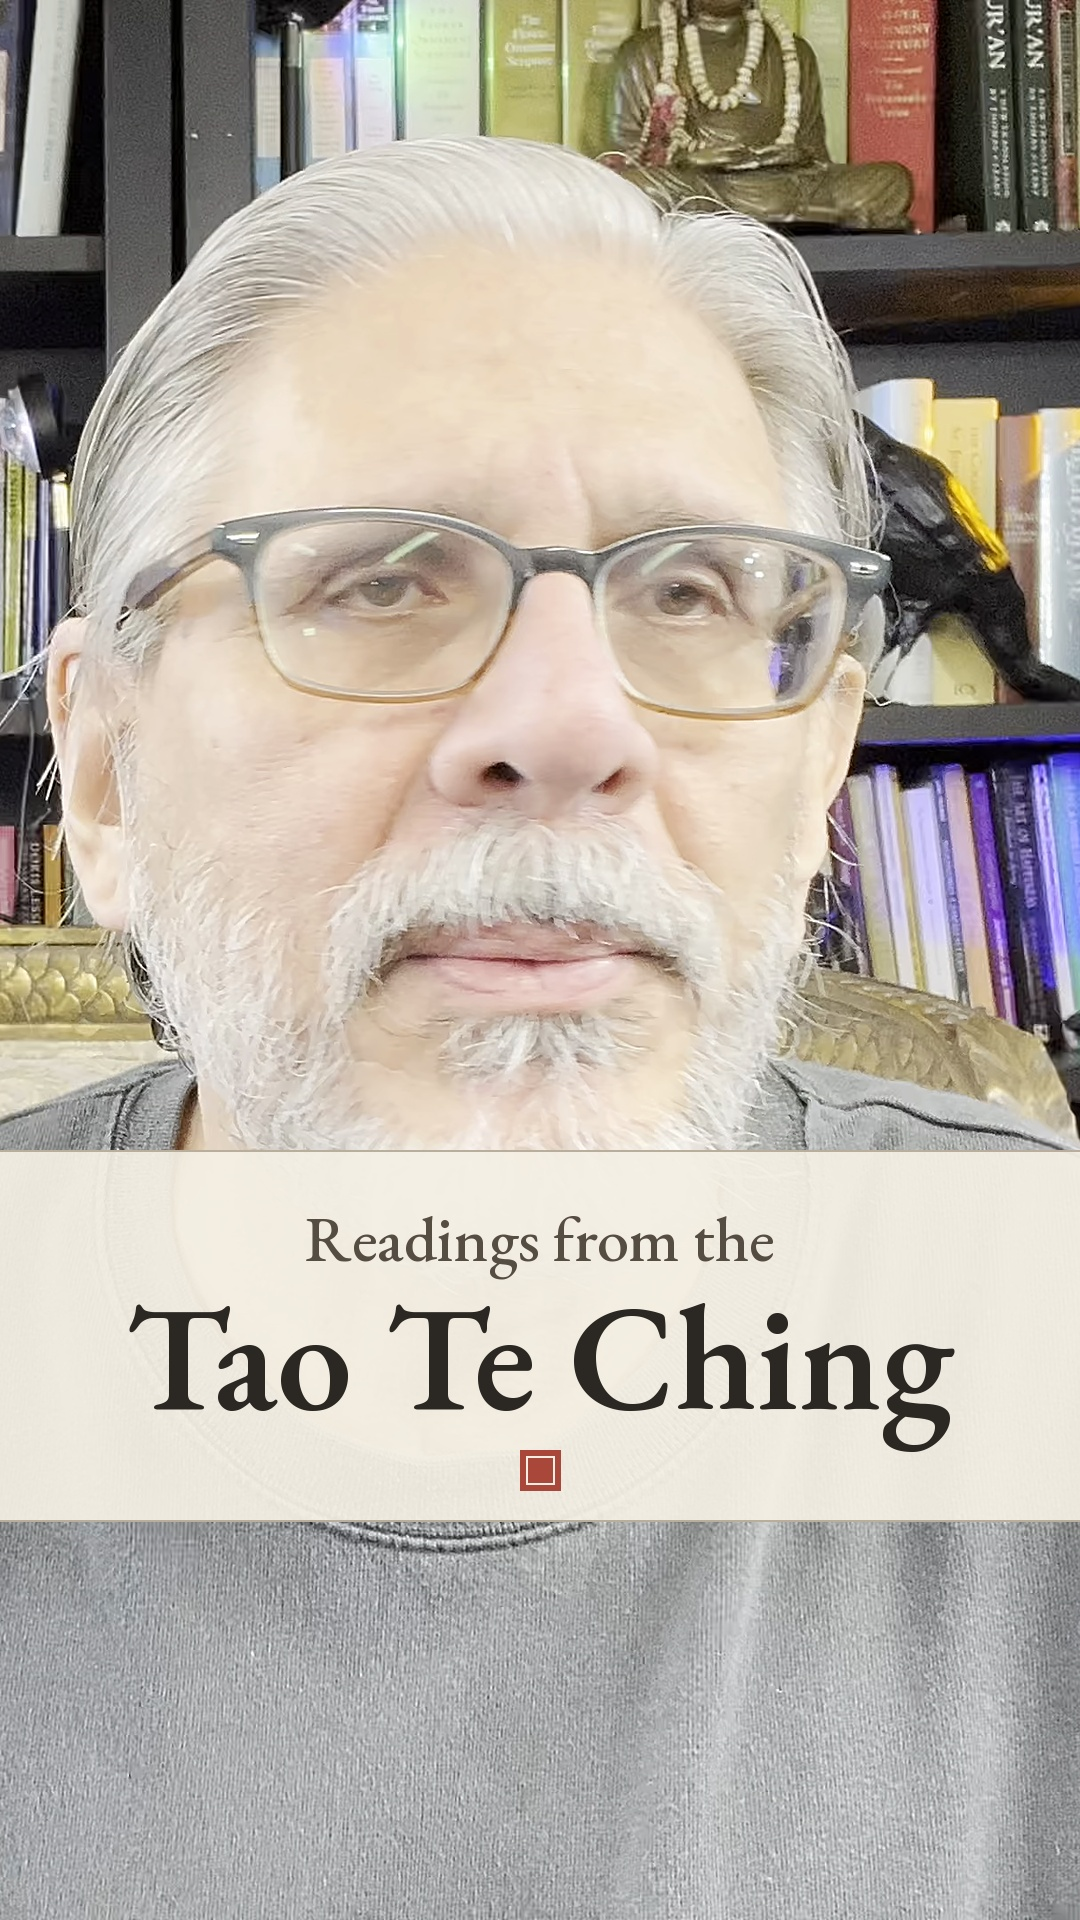
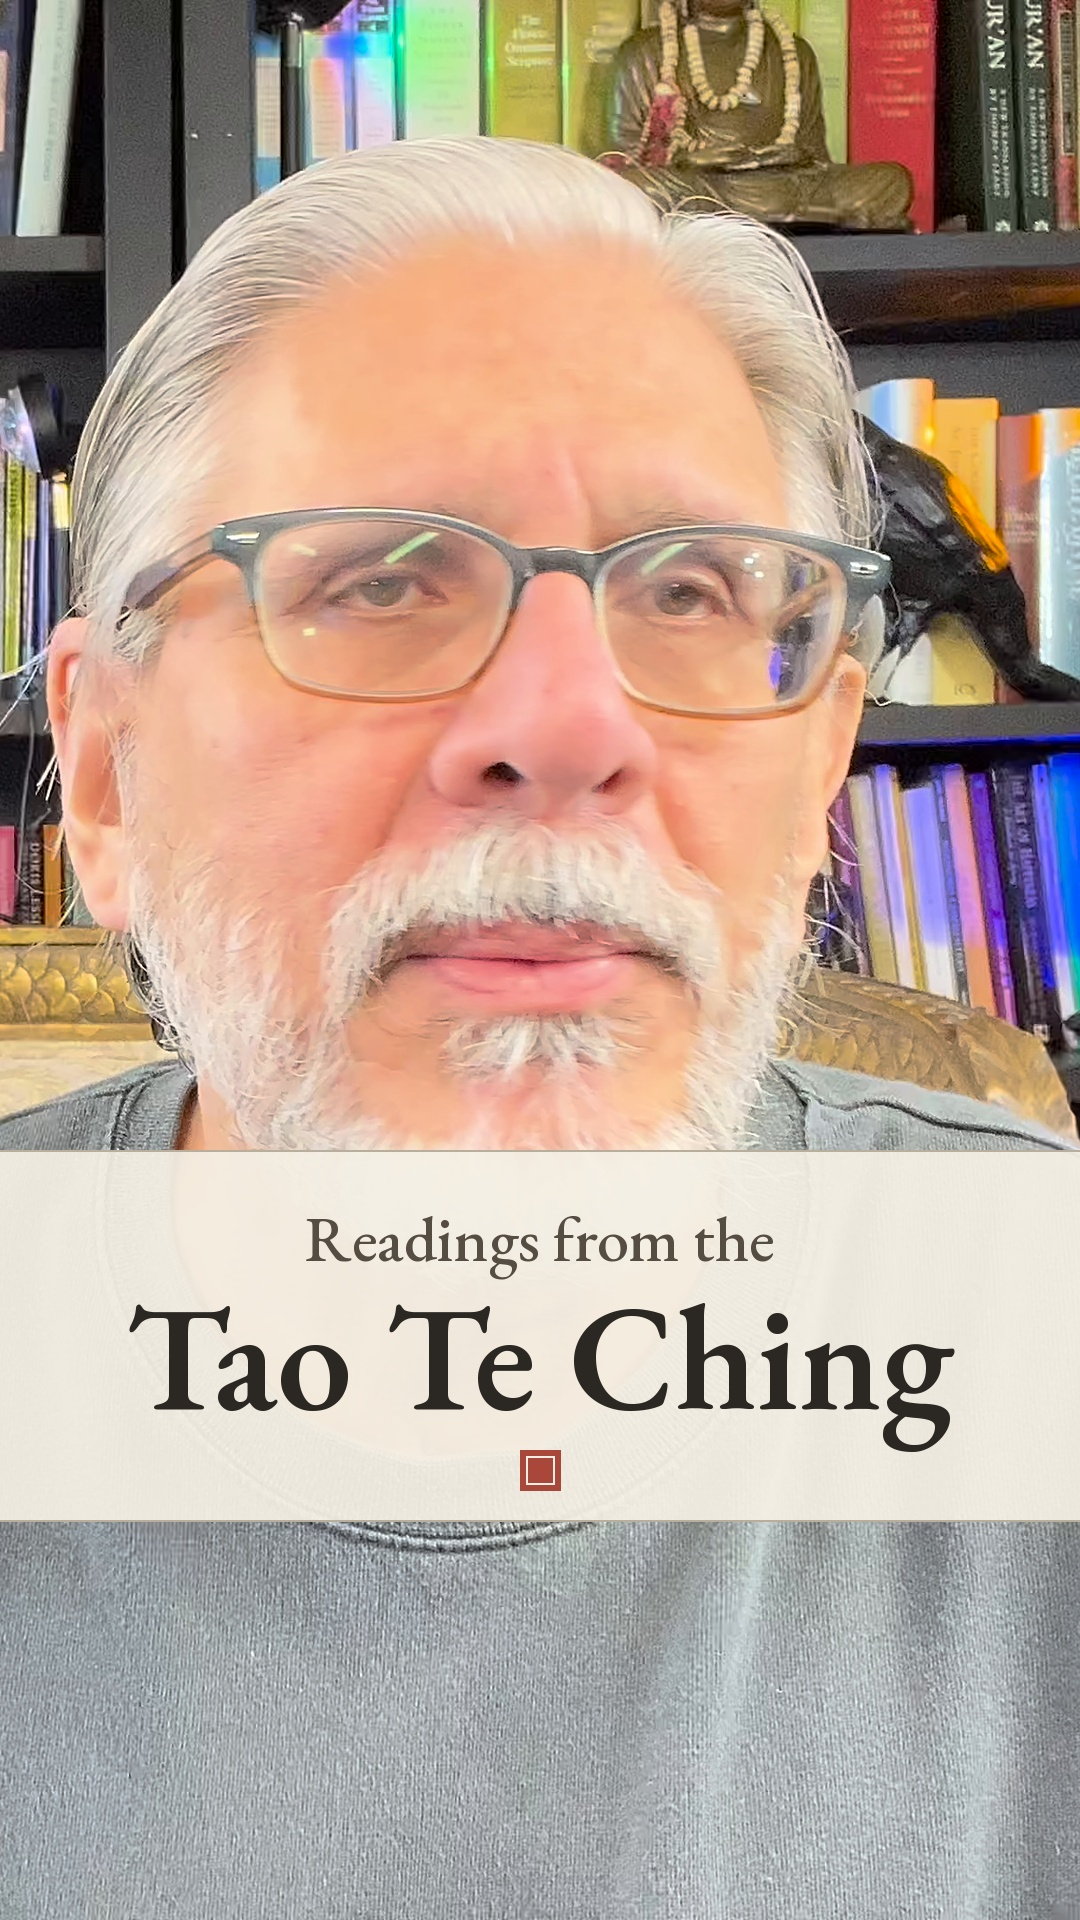
Ch2 D1 round 2: natural colour (tone-map HDR sources), whole coins, apothecary cabinet, end on his face
The 3/28/24 upload is HLG/BT.2020; head shots, drafts and thumbnails now tone-map
HDR sources to SDR BT.709 on decode (common.sdr_filter). SDR sources are unchanged.

Claude-Session: https://claude.ai/code/session_015tUMC94bs1e27rV755Vv4e

diff --git a/pipeline/thumbs.py b/pipeline/thumbs.py
@@ -13,11 +13,11 @@ import argparse, os, subprocess, sys
 import numpy as np
 from PIL import Image, ImageDraw, ImageFont, ImageFilter
 sys.path.insert(0, os.path.dirname(os.path.abspath(__file__)))
-from common import W, H, FONT_SEMI, FONT_MED, OFFWHITE, INK, CINNABAR, work_dir, short_dir, source_path, source_info, head_source
+from common import W, H, FONT_SEMI, FONT_MED, OFFWHITE, INK, CINNABAR, work_dir, short_dir, source_path, source_info, head_source, vf
 
 
 def grab(src, t, info):
-    raw = subprocess.run(["ffmpeg", "-v", "error", "-ss", f"{t}", "-i", src, "-frames:v", "1", "-f", "rawvideo", "-pix_fmt", "rgb24", "-"],
+    raw = subprocess.run(["ffmpeg", "-v", "error", "-ss", f"{t}", "-i", src, "-frames:v", "1", "-vf", vf(src), "-f", "rawvideo", "-pix_fmt", "rgb24", "-"],
                          capture_output=True, check=True).stdout
     return np.frombuffer(raw, np.uint8).reshape(info["h"], info["w"], 3)
 
@@ -26,7 +26,7 @@ def faces(slug, step, top):
     import cv2
     src, info = source_path(slug), source_info(source_path(slug))
     sw, sh = info["w"], info["h"]
-    p = subprocess.Popen(["ffmpeg", "-v", "error", "-i", src, "-vf", f"fps=1/{step}", "-f", "rawvideo", "-pix_fmt", "bgr24", "-"],
+    p = subprocess.Popen(["ffmpeg", "-v", "error", "-i", src, "-vf", vf(src, f"fps=1/{step}"), "-f", "rawvideo", "-pix_fmt", "bgr24", "-"],
                          stdout=subprocess.PIPE)
     face = cv2.CascadeClassifier(cv2.data.haarcascades + "haarcascade_frontalface_default.xml")
     eyes = cv2.CascadeClassifier(cv2.data.haarcascades + "haarcascade_eye_tree_eyeglasses.xml")

diff --git a/pipeline/common.py b/pipeline/common.py
@@ -6,7 +6,7 @@ Layout:
   .work/img/                 museum image cache shared by all Shorts (git-ignored)
   assets/fonts/              EB Garamond static instances (OFL)
 """
-import json, os, subprocess
+import functools, json, os, subprocess
 
 REPO = os.path.dirname(os.path.dirname(os.path.abspath(__file__)))
 WORK_ROOT = os.environ.get("SHORTS_WORK", os.path.join(REPO, ".work"))
@@ -66,3 +66,22 @@ def source_info(path):
 
 def image_path(acc):
     return os.path.join(IMG_DIR, f"{acc}_full.jpg")
+
+
+@functools.lru_cache(None)
+def sdr_filter(path):
+    """ffmpeg filter chain that tone-maps an HDR source (HLG or PQ, e.g. the 3/28/24 upload) to SDR BT.709.
+
+    Without it, ffmpeg hands the BT.2020/HLG pixels over as if they were BT.709, and his face comes out washed out
+    and blanched. Returns '' for an SDR source, so older Shorts render exactly as before."""
+    trc = subprocess.run(["ffprobe", "-v", "error", "-select_streams", "v:0", "-show_entries", "stream=color_transfer",
+                          "-of", "csv=p=0", path], capture_output=True, text=True).stdout.strip().strip(",")
+    if trc not in ("arib-std-b67", "smpte2084"):
+        return ""
+    return (f"zscale=tin={trc}:min=bt2020nc:pin=bt2020:rin=tv:t=linear:npl=100,format=gbrpf32le,zscale=p=bt709,"
+            "tonemap=tonemap=hable:desat=0,zscale=t=bt709:m=bt709:r=tv,format=yuv420p")
+
+
+def vf(path, *filters):
+    """Join video filters for decoding `path`, ending with its HDR-to-SDR tone map if it needs one."""
+    return ",".join(f for f in (*filters, sdr_filter(path)) if f) or "null"

diff --git a/pipeline/render.py b/pipeline/render.py
@@ -18,7 +18,7 @@ from PIL import Image, ImageDraw, ImageFont, ImageFilter
 Image.MAX_IMAGE_PIXELS = None
 
 sys.path.insert(0, os.path.dirname(os.path.abspath(__file__)))
-from common import W, H, FPS, FONT_SEMI, FONT_MED, OFFWHITE, OCHRE, CINNABAR, INK, work_dir, head_source, source_info, DISSOLVE
+from common import W, H, FPS, FONT_SEMI, FONT_MED, OFFWHITE, OCHRE, CINNABAR, INK, work_dir, head_source, source_info, DISSOLVE, vf
 
 CAP_SIZE = 70
 CAP_CENTER_Y = 0.70  # fraction of H; a Short can set "caption_y" (a 4K close-up puts his beard here, so 0.83)
@@ -71,7 +71,7 @@ class HeadReader:
         start = max(self.first, math.floor(ts * self.fps + 1e-6)) if ts is not None else self.first
         self.bx, self.bw = self.bands[si]
         self.proc = subprocess.Popen(["ffmpeg", "-v", "error", "-ss", f"{start / self.fps:.4f}", "-i", self.src,
-                                      "-t", f"{b - start / self.fps + 1:.3f}", "-vf", f"crop={self.bw}:{self.sh}:{self.bx}:0",
+                                      "-t", f"{b - start / self.fps + 1:.3f}", "-vf", vf(self.src, f"crop={self.bw}:{self.sh}:{self.bx}:0"),
                                       "-f", "rawvideo", "-pix_fmt", "rgb24", "-"],
                                      stdout=subprocess.PIPE)
         self.si, self.idx, self.cur = si, start - 1, None

diff --git a/pipeline/draft.py b/pipeline/draft.py
@@ -29,7 +29,7 @@ import argparse, json, os, subprocess, sys
 import numpy as np
 from PIL import Image, ImageDraw, ImageFont
 sys.path.insert(0, os.path.dirname(os.path.abspath(__file__)))
-from common import W, H, FPS, DISSOLVE, work_dir, source_path, source_info, head_source
+from common import W, H, FPS, DISSOLVE, work_dir, source_path, source_info, head_source, vf
 from render import Composer, Captions, CAP_CENTER_Y, FONT_MED
 from words import Env
 
@@ -38,7 +38,7 @@ VOICE_DB = -42.0  # analysis-WAV level above which he is voicing (room tone sits
 
 
 def grab(src, t, info):
-    raw = subprocess.run(["ffmpeg", "-v", "error", "-ss", f"{max(t, 0):.3f}", "-i", src, "-frames:v", "1",
+    raw = subprocess.run(["ffmpeg", "-v", "error", "-ss", f"{max(t, 0):.3f}", "-i", src, "-frames:v", "1", "-vf", vf(src),
                           "-f", "rawvideo", "-pix_fmt", "rgb24", "-"], capture_output=True, check=True).stdout
     return np.frombuffer(raw, np.uint8).reshape(info["h"], info["w"], 3)
 

diff --git a/shorts/tao-ch2-herd-thinking/DELIVERY.md b/shorts/tao-ch2-herd-thinking/DELIVERY.md
@@ -1,6 +1,6 @@
 # When everyone agrees, something is overlooked: Tao Te Ching, Chapter 2 (Discussion 1)
 
-**File:** `tao-ch2-herd-thinking.mp4`, 1080×1920 (9:16), 30 fps, H.264 High at about 8 Mbps, AAC 48 kHz. Runs 101.4 s: 97.4 s of speech and a 4 s end card. This is longer than the usual 85–95 s, because the user-approved transcript runs long once David's natural pauses are kept.
+**File:** `tao-ch2-herd-thinking.mp4`, 1080×1920 (9:16), 30 fps, H.264 High at about 8 Mbps, AAC 48 kHz. Runs 103.7 s: 99.7 s of speech and a 4 s end card. This is longer than the usual 85–95 s, because the user-approved transcript runs long once David's natural pauses are kept.
 **Source:** *Tao Te Ching Chaps. 2 & 3: When Everyone Knows Beauty is Beauty, Not Exalting Cleverness 3/28/24* (archive.org `arredondo-03-28-24-tao-te-ching-chaps-2-3-when-everyone-knows-beauty-is-beauty`). Head shots are cut from the item's 4K WebM: the window 155–345 s is fetched with `pipeline/fetch_hires.py`. Word timing and the audio analysis use the 480p MP4.
 **Release slot:** Chapter 2, Discussion 1 (Mon 2 Nov 2026 in `docs/release-schedule.xlsx`).
 
@@ -23,43 +23,43 @@ When Everyone Agrees, Something Is Being Overlooked
 | 8 | 3:55.25 – 4:03.20 | 0:53.06 – 1:01.01 | "And so this kind of herd thinking always has something wrong with it." |
 | 9 | 5:08.75 – 5:19.70 | 1:01.01 – 1:11.96 | "There's many examples… the herd mentality of everyone deciding, this is good, this is beautiful." |
 | 10 | 5:21.66 – 5:31.20 | 1:11.96 – 1:21.50 | "If everybody knows, let's go back to the 50s, if everybody knows Miss America is beautiful, then maybe we're missing something about beauty, for example." |
-| 11 | 4:42.10 – 4:50.26 | 1:21.50 – 1:29.66 | "So at a personal level, if you're sure something's good, then you need to think more about what might be the downsides. This is just" |
-| 12 | 4:52.55 – 4:55.35 | 1:29.66 – 1:32.46 | "basic wisdom, basic counsel." |
-| 13 | 5:36.44 – 5:41.40 | 1:32.46 – 1:37.42 | "Take this into your life and just try and find areas where everyone agrees." |
-| — | — | 1:37.42 – 1:41.42 | End card (4 s, silent) |
+| 11 | 4:42.10 – 4:55.35 | 1:21.50 – 1:34.75 | "So at a personal level, if you're sure something's good, then you need to think more about what might be the downsides. This is just, you know, basic wisdom, basic counsel." |
+| 12 | 5:36.44 – 5:41.40 | 1:34.75 – 1:39.71 | "Take this into your life and just try and find areas where everyone agrees." |
+| — | — | 1:39.71 – 1:43.71 | End card (4 s, silent) |
 
-Every cut falls in a pause, with a 12 ms fade at each join. Every join sits under a painting or on an image cut, so no jump shows on his face. Besides what the approved transcript already leaves out, I removed:
-- a 3 s pause in "If everyone knows something is good, … something's being overlooked" (3:07.95–3:10.95);
-- "you know, uh…" and a 2 s pause between "This is just" and "basic wisdom" (4:50.26–4:52.55).
+Every cut falls in a pause, with a 12 ms fade at each join. Every join but the last sits under a painting or on an image cut. At the user's request (round 2) the ending stays on his face from "So at a personal level" through to the end card, so the last join (1:34.75, "basic counsel. | Take this into your life") is a straight cut on his face. To keep it the only one, "you know, uh…" and its pause before "basic wisdom" are back in (left off the captions). Besides what the approved transcript already leaves out, I removed a 3 s pause in "If everyone knows something is good, … something's being overlooked" (3:07.95–3:10.95).
 
 He makes a few small repeats ("examples, just, you just have to", "look at, look at history", "of, of the herd"), and there's an "And" and a "but still, I mean" before "I'm thinking of thalidomide". These stay in the audio and are left off the captions.
 
 ## 4. Images
-All are from the Cleveland Museum of Art Open Access collection (CC0), full-resolution masters, and each is matched to the words it sits under. Every still zooms out linearly from 1.08× to 1.00× (1.04× on the coin).
+All are from the Cleveland Museum of Art Open Access collection (CC0), full-resolution masters, except the apothecary cabinet (The Met, Open Access, public domain). Each is matched to the words it sits under. Every still zooms out linearly from 1.08× to 1.00× (1.03× on the coins).
 
 | Short (s) | Words | Work | Artist / culture | Date | License | Source |
 |---|---|---|---|---|---|---|
 | 6.88–16.46 | "When everyone knows beauty is beauty…" | Chinese Beauty | Kubo Shunman | late 1700s–early 1800s | CC0 | https://clevelandart.org/art/1988.1 |
-| 27.21–29.31 | "So every coin has two sides." | Tetradrachm: Head of Apollo (obverse) | Greek, minted at Miletos | c. 334–323 BCE | CC0 | https://clevelandart.org/art/1916.993 |
-| 29.31–32.03 | "One side may be a lot less important than the other" | the same coin's reverse (lion) | Greek, minted at Miletos | c. 334–323 BCE | CC0 | https://clevelandart.org/art/1916.993 |
-| 33.77–37.91 | "thalidomide, which was a medication…" | Pharmacy Jar (Albarello) | Italy, Cafaggiolo | c. 1475–80 | CC0 | https://clevelandart.org/art/1941.550 |
+| 27.21–29.31 | "So every coin has two sides." | Tetradrachm: Head of Apollo (obverse), the whole coin | Greek, minted at Miletos | c. 334–323 BCE | CC0 | https://clevelandart.org/art/1916.993 |
+| 29.31–32.03 | "One side may be a lot less important than the other" | the same coin's reverse (lion), the whole coin | Greek, minted at Miletos | c. 334–323 BCE | CC0 | https://clevelandart.org/art/1916.993 |
+| 33.77–37.91 | "thalidomide, which was a medication…" | Apothecary Cabinet (an open medicine chest of bottles) | Nicolaus I Kolb | 1617–18 | Public domain (The Met) | https://www.metmuseum.org/art/collection/search/823123 |
 | 49.54–53.06 | "The tulips in Holland" | Flowers in a Glass | Ambrosius Bosschaert | 1606 | CC0 | https://clevelandart.org/art/1960.108 |
 | 55.24–62.56 | "this kind of herd thinking…" | Return of the Flock | Théophile Chauvel | c. 1870 | CC0 | https://clevelandart.org/art/1921.975 |
 | 67.04–71.96 | "the herd mentality of everyone deciding, this is good, this is beautiful" | Fire-Works on the Night of the Fourth of July | Winslow Homer | 1868 | CC0 | https://clevelandart.org/art/1942.1286 |
 | 75.22–81.50 | "Miss America is beautiful" | A Beauty | Gion Seitoku | early 1800s | CC0 | https://clevelandart.org/art/1985.271 |
-| 89.39–97.42 | "basic wisdom… take this into your life" | Laozi Riding an Ox | Chen Hongshou | 1598–1652 | CC0 | https://clevelandart.org/art/1979.27.1.2 |
 
-`images.json` has the exact crops and motion.
+The coin photo shows both faces side by side at full height, so no 9:16 crop can hold a whole face. Each face is masked as a circle and placed whole on a 9:16 field of the photo's own background (`ext-coin-obverse`, `ext-coin-reverse`, built from the CMA master). The cabinet is the Met's view DP-19649-002 (`ext_image.py ext-apothecary-cabinet …`). `images.json` has the exact crops and motion.
 
 ## 5. Notes on choices
+- **Round 2 (the user's notes):**
+  - **Colour:** his face looked washed out. The 3/28/24 upload is HDR (HLG, BT.2020), and the pipeline had been reading it as ordinary video. Head shots, drafts and thumbnails are now tone-mapped to SDR BT.709 on decode (`common.sdr_filter`, used automatically for any HDR source), which restores his natural colour.
+  - **Coins:** both faces are now whole.
+  - **Thalidomide:** the decorated pharmacy jar didn't read as medicine. An open 17th-century apothecary's chest, with its rows of medicine bottles, replaces it.
+  - **Ending:** the Laozi image is gone, and he speaks to camera from "So at a personal level" to the end card.
 - **The coin:** a single coin, shown face then reverse. The Apollo head comes up on "every coin has two sides", and the lion arrives on "One side may be…", cut on the join.
 - **Herd:** sheep packed together on a road for "herd thinking". For "the herd mentality of everyone deciding this is beautiful" I used Homer's crowd, every face turned the same way.
 - **Beauty, twice:** a classical Chinese beauty carries the Cleary line. A celebrated Japanese beauty of her day stands in for Miss America, the beauty everyone agreed on.
-- **Ending:** Laozi on his ox carries "basic wisdom" through to "take this into your life", as the closing image.
 - **Left on his face:** the thalidomide harm ("fetuses… deformities"). An image there would be either gruesome or vague.
 - **Captions:** the 4K close-up puts his beard at 70% of the height, so captions sit at 83%, on his grey sweater. That sweater is lighter than the tan one in earlier videos, so `draft.py` flags it as BRIGHT. Checked full size, the halo keeps every line readable.
-- **Head share:** 50%. No mode runs over 11.6 s.
-- **Listen once:** I can't hear the audio. Please check two places: the join at 0:16.4 ("If everyone knows something is good, | something's being overlooked"), where a 3 s pause was shortened, and the join at 1:29.7 ("This is just | basic wisdom").
+- **Head share:** 59%. The closing head run is 18.2 s, longer than the usual 12 s cap, because the user asked for the ending to stay on his face.
+- **Listen once:** I can't hear the audio. Please check two places: the join at 0:16.4 ("If everyone knows something is good, | something's being overlooked"), where a 3 s pause was shortened, and the straight cut on his face at 1:34.75 ("basic counsel. | Take this into your life").
 
 ## 6. Thumbnails
 - `thumbnails/thumbnail_face.jpg`: frame 3:48.0, eyes open to the camera, cut from the 4K.

diff --git a/docs/style-guide.md b/docs/style-guide.md
@@ -8,7 +8,7 @@ Capture one main teaching from the video and convey it simply and naturally in a
 ## Format
 - 9:16, 1080×1920, 30 fps, H.264 High (2-pass, about 8 Mbps), AAC 256k at 48 kHz, faststart.
 - Talking head: a full-height 9:16 crop of the landscape source. The crop follows his face with a heavily smoothed track (1.5 s Gaussian), so it drifts gently and never snaps. His face sits in the upper-middle third. The upscale is Lanczos with no sharpening.
-- Cut the head shots from the sharpest copy there is. The archive.org items carry the original 4K upload (a VP9 WebM) next to the 480p MP4, and a full-height 9:16 crop of 480p is only 270 px wide. `pipeline/fetch_hires.py` fetches just the window the Short uses and lines it up with the source audio. Everything else (word timing, face tracking) still runs on the 480p MP4.
+- Cut the head shots from the sharpest copy there is. The archive.org items carry the original 4K upload (a VP9 WebM) next to the 480p MP4, and a full-height 9:16 crop of 480p is only 270 px wide. `pipeline/fetch_hires.py` fetches just the window the Short uses and lines it up with the source audio. Everything else (word timing, face tracking) still runs on the 480p MP4. Some uploads are HDR (HLG/BT.2020, e.g. 3/28/24): every head-shot decode tone-maps them to SDR BT.709 (`common.sdr_filter`), otherwise his face comes out washed out and blanched.
 - Only David's real voice, never re-worded. No AI voice.
 
 ## Structure
